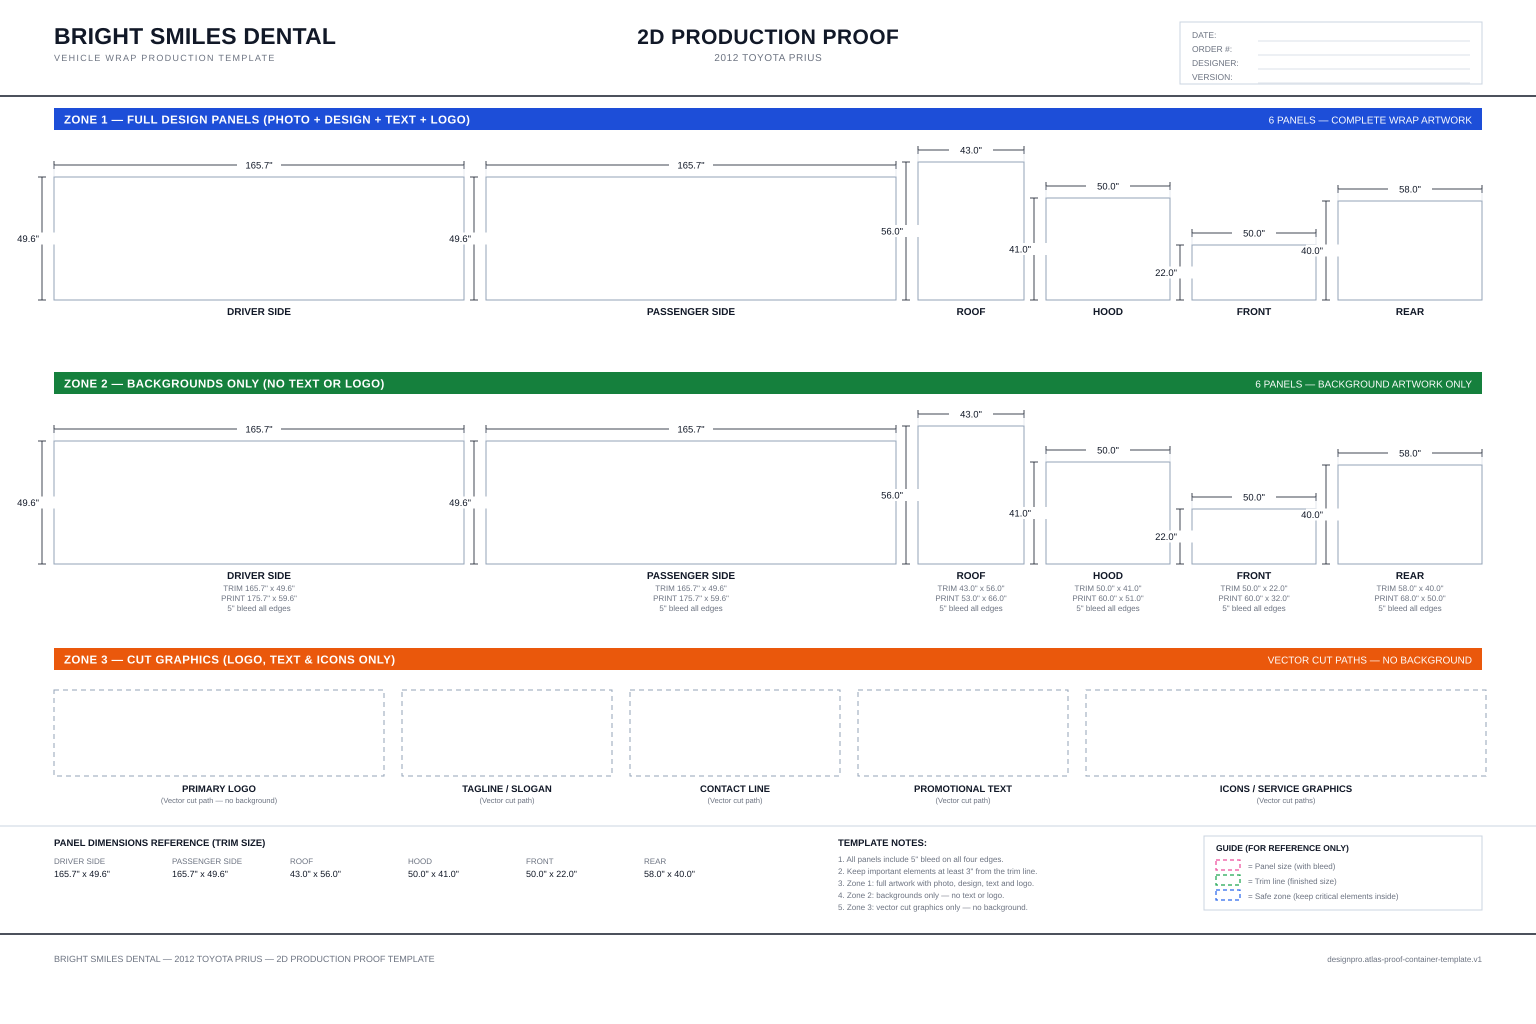
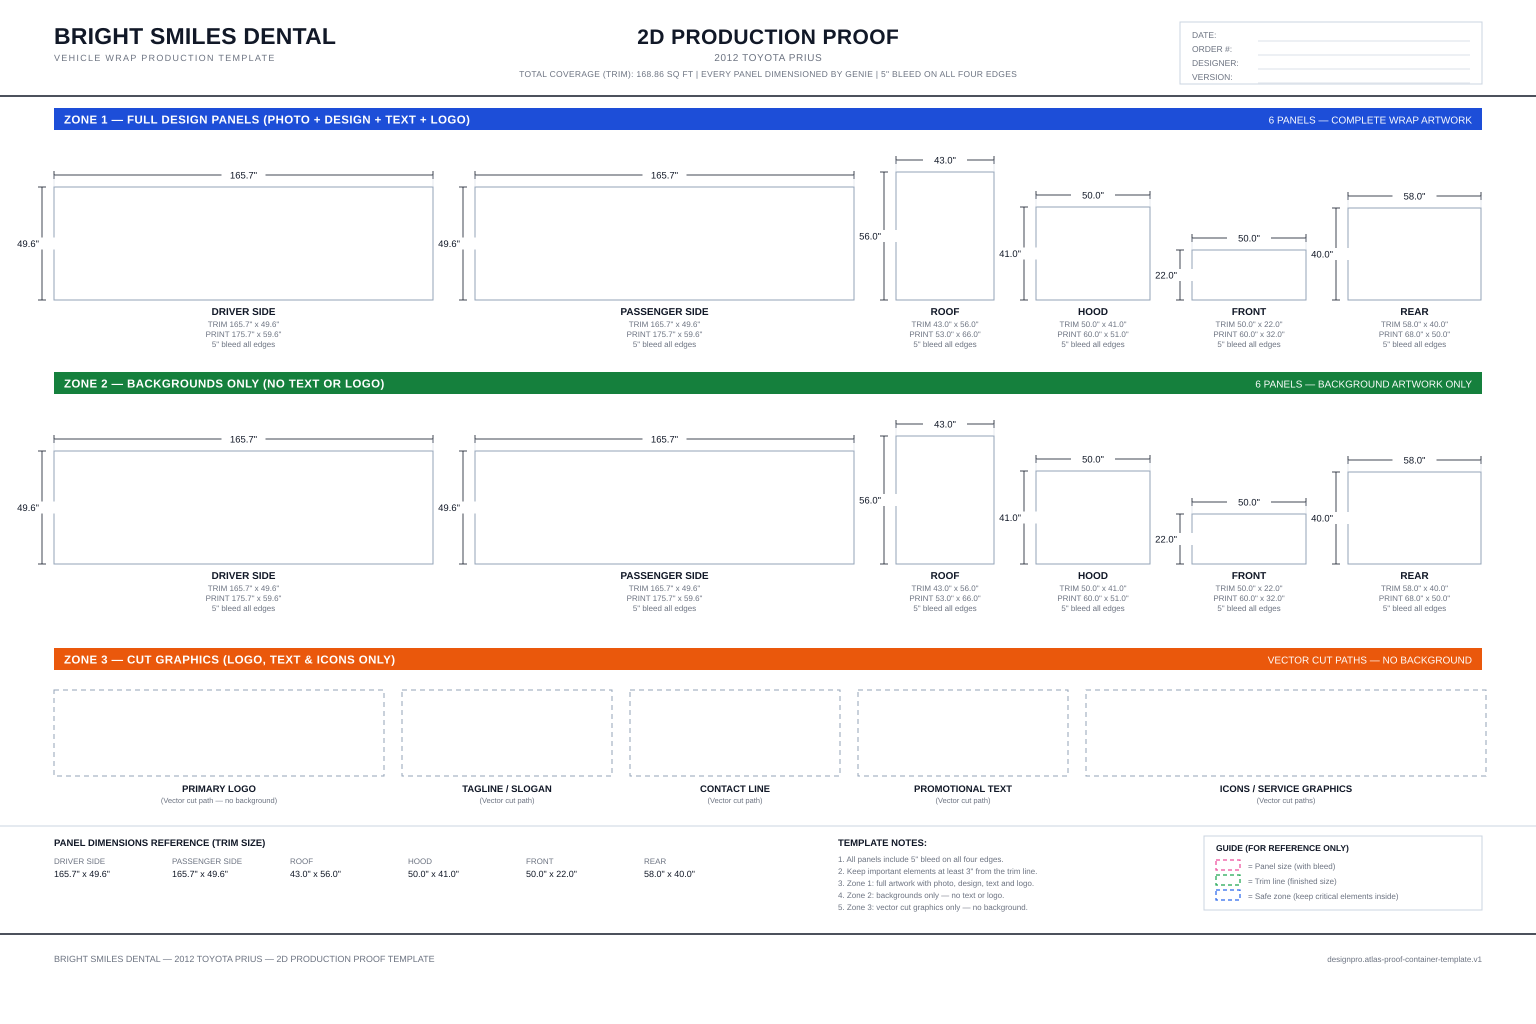
Pin the owner's filled twin; the two attachments now describe ONE layout
Owner supplied the filled version of the container template (Bright Smiles
Dental, 2012 Toyota Prius) on 2026-09-18. It is the sheet the blank container
fills in: header with TOTAL COVERAGE, three full-width ZONE bands, the panel
dimensions reference row, template notes, guide legend, footer.

THE PAIR I SHIPPED IN af563a95 DID NOT AGREE, AND I DID NOT NOTICE.

That commit attached the container template beside a format sheet pinned
earlier the same day and said in as many words that the request carries "the
empty structure and a finished example of it". It did not. The pinned sheet
(panel-production-proof-three-version.png, 57c07672) is a TWO-COLUMN layout --
VERSION 1 across the upper half, a ruled trim table and TOTAL COVERAGE beside
the smaller panels, VERSION 2 lower left, the cut proof lower right. The
container is three zone bands. So the request told the model the blank sheet
was the filled one drawn empty, and that sentence was false about the two
images actually attached. Every lock passed: both hashes verified, the workflow
shipped both, the order was right, the prompt was under budget. Nothing checks
that two teaching inputs describe the same document.

The owner's new sheet closes it by being the actual twin, so it replaces the
two-column one rather than joining it -- pinning both would attach two
contradictory structures. The superseded file stays on disk unpinned; owner
reference bytes are not mine to delete.
[…]

diff --git a/supabase/functions/_shared/atlas-panel-proof-prompt.ts b/supabase/functions/_shared/atlas-panel-proof-prompt.ts
@@ -28,8 +28,12 @@ export const ATLAS_PANEL_PROOF_CONTRACT = "designpro.atlas-panel-production-proo
 /**
  * THE OWNER'S FORMAT SHEET, HASH-PINNED. "Must use this" (Trish 2026-09-18).
  *
- * The Bright Smiles Dental three-version 2D PRODUCTION PROOF, 1536x1024,
- * carrying every block this contract names. Pinned exactly as the Flamingo
+ * The Bright Smiles Dental 2012 Toyota Prius 2D PRODUCTION PROOF, 1536x1024:
+ * header and TOTAL COVERAGE, three full-width ZONE bands, the PANEL DIMENSIONS
+ * REFERENCE row, TEMPLATE NOTES, GUIDE legend, footer. It is the FILLED TWIN of
+ * the container template, which is why it replaced the two-column sheet pinned
+ * earlier the same day -- two layouts cannot both be "the template filled in".
+ * Pinned exactly as the Flamingo
  * teaching proof is pinned, for the same reason: a teaching input that silently
  * changes teaches something nobody chose (canary 33389124918). NEVER recreate,
  * crop, relabel or re-encode it.
@@ -41,9 +45,9 @@ export const ATLAS_PANEL_PROOF_CONTRACT = "designpro.atlas-panel-production-proo
  * carries only the strings in their own request.
  */
 export const PANEL_PROOF_FORMAT_EXAMPLE = {
-  path: "atlas-examples/panel-production-proof-three-version.png",
[1 lines of base64/hex data omitted]
-  byteSize: 1793915,
+  path: "atlas-examples/panel-proof-zones-filled.png",
[1 lines of base64/hex data omitted]
+  byteSize: 1870997,
   width: 1536,
   height: 1024,
 } as const;
@@ -67,8 +71,8 @@ export const PANEL_PROOF_FORMAT_EXAMPLE = {
  */
 export const PANEL_PROOF_CONTAINER_TEMPLATE = {
   path: "atlas-examples/panel-proof-container-template.png",
[1 lines of base64/hex data omitted]
-  byteSize: 100028,
[1 lines of base64/hex data omitted]
+  byteSize: 112895,
   width: 1536,
   height: 1024,
   contract: "designpro.atlas-proof-container-template.v1",
@@ -120,10 +124,10 @@ export const INSTALLATION_FACT = [
  * done that; a coordinate table has, 4/4.
  */
 export const SHEET_LAYOUT = [
-  "THE SHEET, drawn empty on the attached template: a header band (logo and tagline left,",
-  "2D PRODUCTION PROOF centred, job block right); VERSION 1 across the upper half;",
-  "a TRIM SIZE REFERENCE table and TOTAL COVERAGE beside the smaller panels; VERSION 2 lower",
-  "left; the cut proof lower right; a footer band. Fill it; do not re-flow it.",
+  "THE SHEET, drawn empty on the attached template: a header band (lockup left, 2D PRODUCTION PROOF",
+  "and vehicle centred, job block right); THREE FULL-WIDTH ZONE BANDS stacked down the page, each a",
+  "coloured title bar over its six panels in one row; then a PANEL DIMENSIONS REFERENCE row, TEMPLATE",
+  "NOTES, a GUIDE legend, and a footer. Fill it; do not re-flow it.",
   "",
   "DIMENSION IT AS A DRAFTSMAN WOULD: a measured line outside each panel, arrowheads at both ends,",
   "thin extension lines back to the edge, the figure on the line. A shop drawing, not a poster.",
@@ -136,33 +140,31 @@ export const SHEET_LAYOUT = [
  * a real returned sheet before anything binds to them.
  */
 export const PROOF_REGIONS = {
-  header: { x: 0, y: 0, w: 1, h: 0.093 },
-  version1: { x: 0, y: 0.105, w: 1, h: 0.42 },
-  trimTable: { x: 0.655, y: 0.37, w: 0.2, h: 0.14 },
-  totalCoverage: { x: 0.865, y: 0.37, w: 0.125, h: 0.1 },
-  version2: { x: 0, y: 0.54, w: 0.5, h: 0.35 },
-  cutProof: { x: 0.5, y: 0.54, w: 0.5, h: 0.35 },
-  footer: { x: 0, y: 0.905, w: 1, h: 0.095 },
+  header: { x: 0, y: 0, w: 1, h: 0.094 },
+  zone1: { x: 0, y: 0.105, w: 1, h: 0.258 },
+  zone2: { x: 0, y: 0.363, w: 1, h: 0.270 },
+  zone3: { x: 0, y: 0.633, w: 1, h: 0.174 },
+  reference: { x: 0, y: 0.807, w: 1, h: 0.105 },
+  footer: { x: 0, y: 0.912, w: 1, h: 0.088 },
 } as const;
 
 /** The three artifacts, in one pass, by one designer. */
 export const VERSIONS = [
   {
     key: "branded",
-    label: "VERSION 1 — FULL DESIGN (WITH TEXT & LOGO)",
-    instruction: "every panel carrying the finished design: artwork, logo, company name and contact line.",
+    label: "ZONE 1 — FULL DESIGN PANELS (PHOTO + DESIGN + TEXT + LOGO)",
+    instruction: "every panel carrying the finished design: artwork, logo, name and contact line.",
   },
   {
     key: "artwork",
-    label: "VERSION 2 — ARTWORK ONLY (NO TEXT OR LOGO)",
+    label: "ZONE 2 — BACKGROUNDS ONLY (NO TEXT OR LOGO)",
     instruction:
       "the SAME panels with every word, numeral and logo removed and the artwork continued through where they sat. "
-      + "Not erased or blanked -- drawn as the design would be if it had never carried type. This is the "
-      + "installer's reference sheet.",
+      + "Not erased or blanked -- drawn as if it had never carried type.",
   },
   {
     key: "elements",
-    label: "VERSION 3 — LOGO + TEXT ONLY (CUT PROOF)",
+    label: "ZONE 3 — CUT GRAPHICS (LOGO, TEXT & ICONS ONLY)",
     instruction:
       "the logo, company name and contact line alone, drawn as standalone vector cut outlines on a plain empty "
       + "ground -- no vehicle, no panels and no background artwork. This is the sheet a plotter cuts.",
@@ -230,7 +232,7 @@ export function buildPanelProofPrompt(params: PanelProofParams): string {
     out.push("", "JOB BLOCK — set these in the header exactly as given:",
       ...job.map(([label, value]) => `  ${label}: ${value}`));
   }
-  out.push("", "PRODUCE THREE VERSIONS ON THE PROOF, in this order:",
+  out.push("", "PRODUCE THE THREE ZONES ON THE PROOF, in this order:",
     ...VERSIONS.map((v, i) => `  ${i + 1}. ${v.label} — ${v.instruction}`));
   out.push("", SHEET_LAYOUT);
   out.push("",

diff --git a/supabase/functions/production-panel-proof/index.ts b/supabase/functions/production-panel-proof/index.ts
@@ -70,10 +70,11 @@ const BUCKET = "wrap-files";
  * `panel-production-proof-example.png` -- the Arctic Air sheet, 874x717, which
  * carries ONE version. This contract asks for THREE, so the reference was
  * teaching a different document than the one requested: the same class of
- * defect, pointed the other way. The three-version sheet is 1536x1024 and shows
- * every block this contract names -- header job block, VERSION 1 dimensioned,
- * trim table and total coverage, VERSION 2 artwork-only, and the cut proof with
- * outlined elements.
+ * defect, pointed the other way. The pinned sheet is 1536x1024 and shows every
+ * block this contract names -- header job block and total coverage, then three
+ * full-width ZONE bands (full design panels dimensioned / backgrounds only /
+ * cut graphics), the panel dimensions reference row, template notes and guide
+ * legend. It is the filled twin of the container template attached beside it.
  *
  * The installation photograph is the PHYSICAL REASON a panel is one rectangle.
  * A positive fact conditions better than "do not draw wheel arches", which is
